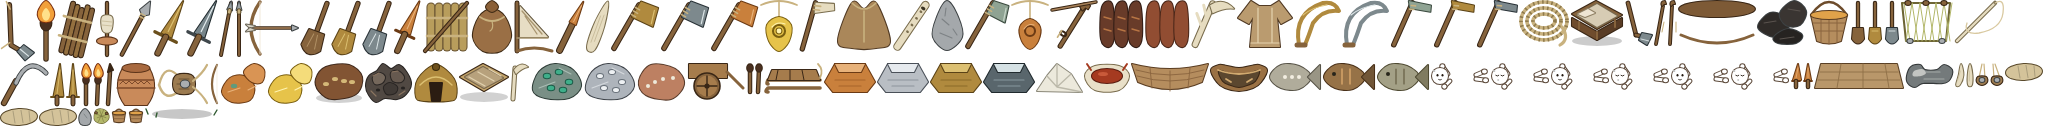
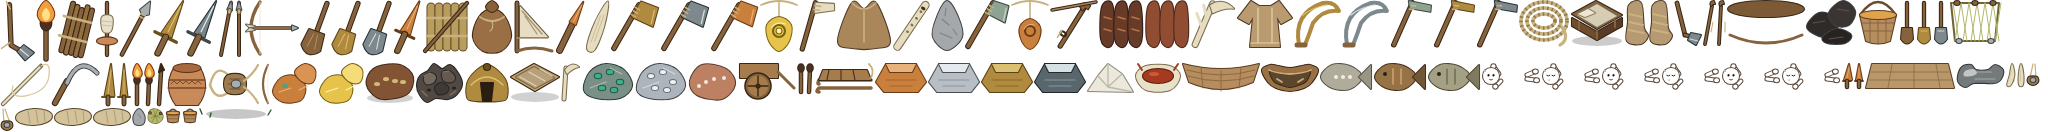
m15: craft and wear warm foot wraps

diff --git a/src/sim/__tests__/foot-wraps.test.ts b/src/sim/__tests__/foot-wraps.test.ts
@@ -1,0 +1,55 @@
+import { describe, expect, it } from 'vitest';
+import { Simulation } from '../core/Simulation.ts';
+import { changeGarment } from '../core/ToolEquipment.ts';
+import { warmthFrom } from '../knowledge/Tech.ts';
+import { wornGarmentsOf } from '../../render/Renderer.ts';
+import { toCheckpointRecord } from '../persistence/CheckpointRecords.ts';
+
+function fixture() {
+  const sim = new Simulation({ seed: 'foot-wraps', world: { width: 48, height: 48 }, population: { bands: 1, peoplePerBand: 2 } });
+  sim.possessFirst(); const person = sim.player!;
+  person.needs.hunger = person.needs.thirst = person.needs.cold = person.needs.fatigue = 0;
+  return { sim, person };
+}
+describe('foot wraps', () => {
+  it('crafts through the normal executor with individual knowledge and exact material cost', () => {
+    const { sim, person } = fixture();
+    for (const [item, count] of person.inventory.entries()) person.inventory.remove(item, count);
+    person.inventory.add('hide', 1); person.inventory.add('rope', 1);
+    // Orders can be accepted before executor preflight; the first real step
+    // refuses unknown techniques without consuming the supplied materials.
+    expect(sim.order(person, 'craft', { recipeId: 'foot_wraps' })).toBe(true);
+    sim.step();
+    expect(person.inventory.count('foot_wraps')).toBe(0);
+    expect(person.inventory.count('hide')).toBe(1); expect(person.inventory.count('rope')).toBe(1);
+    expect(person.action).not.toBe('craft');
+    person.knownTech.add('foot_wraps');
+    expect(sim.order(person, 'craft', { recipeId: 'foot_wraps' })).toBe(true);
+    for (let tick = 0; tick < 300 && !person.inventory.count('foot_wraps'); tick++) sim.step();
+    expect(person.inventory.count('foot_wraps')).toBe(1);
+    expect(person.inventory.count('hide')).toBe(0); expect(person.inventory.count('rope')).toBe(0);
+    expect(warmthFrom(person)).toBe(0);
+  });
+  it('uses an independent feet slot for warmth and appearance; spare or stale references do neither', () => {
+    const { person } = fixture();
+    person.inventory.add('foot_wraps', 1); person.inventory.add('sewn_tunic', 1);
+    expect(warmthFrom(person)).toBe(0); expect(wornGarmentsOf(person).feet).toBeUndefined();
+    expect(changeGarment(person, 'sewn_tunic', 'wear_garment')).toBeNull();
+    expect(changeGarment(person, 'foot_wraps', 'wear_garment')).toBeNull();
+    expect(warmthFrom(person)).toBeCloseTo(1 - 0.7 * 0.92);
+    expect(wornGarmentsOf(person)).toMatchObject({ torso: 'tunic', feet: 'wraps' });
+    person.inventory.remove('foot_wraps', 1);
+    expect(warmthFrom(person)).toBeCloseTo(0.30); expect(wornGarmentsOf(person).feet).toBeUndefined();
+  });
+  it('preserves the equipped feet and individual knowledge through JSON, then takes them off', () => {
+    const { sim, person } = fixture();
+    person.inventory.add('foot_wraps', 1); person.knownTech.add('foot_wraps');
+    changeGarment(person, 'foot_wraps', 'wear_garment');
+    const loaded = Simulation.fromCheckpointRecord(JSON.parse(JSON.stringify(toCheckpointRecord(sim))));
+    const restored = loaded.peopleById.get(person.id)!;
+    expect(restored.knownTech.has('foot_wraps')).toBe(true);
+    expect(warmthFrom(restored)).toBeCloseTo(0.08); expect(wornGarmentsOf(restored).feet).toBe('wraps');
+    expect(changeGarment(restored, 'foot_wraps', 'take_off_garment')).toBeNull();
+    expect(restored.inventory.count('foot_wraps')).toBe(1); expect(warmthFrom(restored)).toBe(0);
+  });
+});

diff --git a/e2e/foot-wraps.spec.ts b/e2e/foot-wraps.spec.ts
@@ -1,0 +1,38 @@
+import { mkdirSync } from 'node:fs';
+import { test, expect } from '@playwright/test';
+
+test('foot wraps are worn from the Spanish Kit and visible on the feet', async ({ page }) => {
+  const errors: string[] = []; page.on('pageerror', error => errors.push(error.message));
+  await page.goto('/?seed=e2e-foot-wraps&skipIntro=1&defaults=1&lang=es');
+  await expect(page.locator('.hud-clock')).not.toBeEmpty({ timeout: 15_000 });
+  await page.locator('.hud-button', { hasText: 'Pausa' }).click();
+  await page.waitForFunction(() => !!(window as any).__dynasty?.renderer?.art);
+  await page.evaluate(() => {
+    const d = (window as any).__dynasty, p = d.sim.player;
+    d.sim.time.tick = d.sim.config.time.ticksPerDay / 2;
+    p.age = 30 * p.daysPerYear; p.inventory.add('foot_wraps', 1);
+    p.needs.hunger = p.needs.thirst = p.needs.cold = p.needs.fatigue = 0;
+    d.camera.zoom = 7.5; d.camera.snapTo(p.x, p.y - 2); d.camera.following = false;
+    d.renderer.fogEnabled = false; d.renderer.interpolator.clear();
+  });
+  await page.locator('.hud-tab[data-tab="kit"]').click();
+  const wear = page.locator('.hud-item-verbs [data-item="foot_wraps"][data-verb="wear_garment"]');
+  await expect(wear).toBeVisible(); await wear.click();
+  await page.evaluate(() => {
+    const d = (window as any).__dynasty;
+    for (let tick = 0; tick < d.sim.config.carry.equipTicks + 2; tick++) d.sim.step();
+    d.renderer.render(null, 0);
+  });
+  await page.locator('.hud-tab[data-tab="self"]').click();
+  await page.locator('.hud-tab[data-tab="kit"]').click();
+  await expect(page.locator('.hud-panel')).toContainText('Envolturas de pies');
+  expect(await page.evaluate(async () => {
+    const d = (window as any).__dynasty, path = '/src/render/Renderer.ts';
+    const { wornGarmentsOf } = await import(/* @vite-ignore */ path);
+    return { item: d.sim.player.equipment.feet?.item, drawn: wornGarmentsOf(d.sim.player).feet };
+  })).toEqual({ item: 'foot_wraps', drawn: 'wraps' });
+  const shots = 'artifacts/screenshots/m15-phase14c-foot-wraps-2026-10-10';
+  mkdirSync(shots, { recursive: true });
+  await page.screenshot({ path: `${shots}/02-envolturas-de-pies-diurnas.png` });
+  expect(errors).toEqual([]);
+});

diff --git a/src/sim/knowledge/Tech.ts b/src/sim/knowledge/Tech.ts
@@ -205,6 +205,7 @@ export const TECHS = [
   'smoking',
   'pemmican',
   'saltmaking', 'salting',
+  'foot_wraps',
 ] as const;
 export type Tech = (typeof TECHS)[number];
 
@@ -469,6 +470,19 @@ export interface TechDef {
  * catch.
  */
 export const TECH: Record<Tech, TechDef> = {
+  foot_wraps: {
+    id: 'foot_wraps', label: 'Foot wraps', domain: 'cloth',
+    age: 'middle_palaeolithic', firstKnown: 'Hide bound around the feet; the first date is uncertain',
+    kind: 'device', requires: ['clothing', 'cordage'], difficulty: 0.25, skill: 'build',
+    prototype: { hide: 1, rope: 1 }, maxRefinement: 3,
+    sparks: [
+      { needs: [{ kind: 'knows', tech: 'clothing' }, { kind: 'holding', item: 'hide' }, { kind: 'feeling', need: 'cold' }],
+        weight: 0.8, story: 'wrapped a cold foot in a scrap of hide' },
+      { needs: [{ kind: 'knows', tech: 'cordage' }, { kind: 'holding', item: 'rope' }, { kind: 'season', season: 'winter' }],
+        weight: 0.5, story: 'thought of binding the foot covering so it would stay on' },
+    ],
+    description: 'Hide tied around the feet keeps them warmer only while worn.',
+  },
   saltmaking: {
     id: 'saltmaking', label: 'Saltmaking', domain: 'fire', web: 'preservation',
     age: 'neolithic', firstKnown: 'Neolithic', kind: 'device',
@@ -2638,6 +2652,8 @@ export interface TechEffect {
 }
 
 export const TECH_EFFECTS: Record<Tech, TechEffect> = {
+  foot_wraps: { summary: 'Crafted foot wraps warm the feet only when actually equipped.',
+    site: 'RECIPES.foot_wraps; ITEMS.foot_wraps garment; warmthFrom and Renderer.wornGarmentsOf' },
   preserving: { summary: 'A drying rack makes meat and fish that spoil ten times more slowly.',
     site: 'BUILDINGS.drying_rack and RECIPES.dried_meat/dried_fish; Inventory.spoil reads their spoilTicks' },
   smoking: { summary: 'A rack beside a hearth makes smoked food that keeps longer than dried food.',

diff --git a/src/i18n/es/tech.ts b/src/i18n/es/tech.ts
@@ -1,5 +1,10 @@
 /** Spanish for tech. Keys are the English templates; see `i18n.ts`. */
 export const ES_TECH: Record<string, string> = {
+  'Crafted foot wraps warm the feet only when actually equipped.': 'Las envolturas de pies fabricadas solo abrigan cuando se llevan puestas.',
+  'Hide bound around the feet; the first date is uncertain': 'Piel atada alrededor de los pies; la fecha más antigua es incierta',
+  'wrapped a cold foot in a scrap of hide': 'envolvió un pie frío en un retazo de piel',
+  'thought of binding the foot covering so it would stay on': 'pensó en atar la envoltura del pie para que no se soltara',
+  'Hide tied around the feet keeps them warmer only while worn.': 'La piel atada alrededor de los pies solo abriga mientras se lleva puesta.',
   'Saltmaking': 'Obtener sal',
   'Salting food': 'Salar comida',
   'noticed crystals left behind when brine dried in a vessel': 'observó los cristales que quedaban al secarse la salmuera en una vasija',

diff --git a/art/src/props/items.ts b/art/src/props/items.ts
@@ -6,6 +6,9 @@ export type ItemArt = [id: string, label: string, tech: string, draw: () => stri
 export const WOOD = '#86633c', WOOD_D = '#3a2716', STONE = '#a9adb0', STONE_D = '#3d4244', BONE = '#e6dcc0', BONE_D = '#7a6d4e', CORD = '#c9b27f';
 const rot = (inner: string, deg: number, cx = 32, cy = 32): string => `<g transform="rotate(${deg} ${cx} ${cy})">${inner}</g>`;
 export const ITEMS: ItemArt[] = [
+  ['foot_wraps', 'Envolturas de pies', 'foot_wraps', () =>
+    [19, 43].map(x => shape(smooth([[x - 7, 13], [x + 5, 11], [x + 8, 36], [x + 12, 44], [x + 5, 52], [x - 9, 49], [x - 8, 30]]), '#b59a73', '#513a24')
+      + stroke(`M${x - 7},22L${x + 6},25M${x - 7},30L${x + 7},33M${x - 7},38L${x + 8},41`, CORD, 2)).join('')],
   ['salt', 'Sal', 'saltmaking', () =>
     shape(poly([[10, 47], [20, 32], [30, 20], [44, 30], [55, 48]]), '#ece9dc', '#8b8879')
     + stroke('M20,32L30,43L44,30M30,20L30,43L55,48', '#bcb9aa', 1.3)],

diff --git a/src/render/Renderer.ts b/src/render/Renderer.ts
@@ -64,7 +64,11 @@ export function wornGarmentsOf(person: Person): PersonAspect['wear'] {
     ? torsoId === 'sewn_tunic' ? 'tunic' : torsoId : undefined;
   const cloak = person.equipment.cloak?.item === 'hide_cape' && person.inventory.count('hide_cape') >= 1
     ? 'cloak' as const : undefined;
-  return { torso, cloak };
+  const feet = person.equipment.feet?.item === 'foot_wraps' && person.inventory.count('foot_wraps') >= 1
+    ? 'wraps' as const : undefined;
+  // Keep absent optional regions out of the appearance record: old callers
+  // and cached appearances already use the two torso/cloak keys.
+  return feet ? { torso, cloak, feet } : { torso, cloak };
 }
 
 const BIOME_COLORS: Record<Biome, [string, string]> = {

diff --git a/src/sim/entities/Recipe.ts b/src/sim/entities/Recipe.ts
@@ -808,6 +808,8 @@ export const RECIPES: Record<string, RecipeDef> = {
     workTicks: 100, ingredients: { meat: 2, salt: 1 }, output: { salted_meat: 2 }, preservesInput: 'meat', keep: 4 },
   salted_fish: { id: 'salted_fish', label: 'Salt fish', icon: '🐟', tech: 'salting', skill: 'cook',
     workTicks: 100, ingredients: { fish: 2, salt: 1 }, output: { salted_fish: 2 }, preservesInput: 'fish', keep: 4 },
+  foot_wraps: { id: 'foot_wraps', label: 'Foot wraps', icon: '👣', tech: 'foot_wraps', skill: 'build',
+    workTicks: 70, ingredients: { hide: 1, rope: 1 }, output: { foot_wraps: 1 }, keep: 1 },
 };
 
 /** Every item any recipe can produce. Used by the "is this reachable?" tests. */

diff --git a/src/sim/entities/Item.ts b/src/sim/entities/Item.ts
@@ -485,6 +485,8 @@ export const ITEMS: Record<string, ItemDef> = {
   salted_fish: { id: 'salted_fish', label: 'Salted fish', nutrition: 18, spoilTicks: 160000,
     macros: { fat: 0.35, protein: 0.65, carb: 0 }, baseValue: 11,
     class: 'food', hand: { perHand: 3, perArms: 8, hands: 1 } },
+  foot_wraps: { id: 'foot_wraps', label: 'Foot wraps', nutrition: 0, spoilTicks: 0, baseValue: 4,
+    class: 'small', hand: { perHand: 1, perArms: 1, hands: 1 }, garment: { slot: 'feet', warmth: 0.08 } },
 };
 
 export class Inventory {

diff --git a/src/i18n/es/data.ts b/src/i18n/es/data.ts
@@ -1,5 +1,6 @@
 /** Spanish for data. Keys are the English templates; see `i18n.ts`. */
 export const ES_DATA: Record<string, string> = {
+  'Foot wraps': 'Envolturas de pies',
   'Salt': 'Sal',
   'Salted meat': 'Carne salada',
   'Salted fish': 'Pescado salado',

diff --git a/docs/m15_phase14c_foot_wraps.md b/docs/m15_phase14c_foot_wraps.md
@@ -1,0 +1,29 @@
+# M15 14c — Foot wraps, 2026-10-10
+
+Version `0.15.38-alpha`. Individual `foot_wraps` knowledge requires clothing
+and cordage; two cold/winter discovery routes, a hide-and-rope prototype and
+an actual recipe ship together. Fabrication costs one hide and one rope,
+70 banked work ticks through normal craft/interruption readers.
+
+The garment occupies `feet` and supplies warmth 0.08 only while worn. The
+existing warmth composition, NPC garment demand and manual wear/take-off
+actions read its data. A tunic and foot wraps combine independently; extra
+inventory copies or a stale equipment reference supply neither warmth nor
+appearance. Checkpoint JSON retains the slot and knowledge.
+
+Art: generated `props/item/foot_wraps`, and the existing `feet/wraps` person
+layer, selected only by an owned equipped garment. No PNG edited by hand.
+The Spanish label, discovery stories, description and effect are translated.
+No precise historical first date is asserted.
+
+Verification: typecheck; 62/62 focused unit tests in six files (garment,
+crafting, knowledge/synthesis, i18n and generated art); single-seed default
+health still fails `cravings-steer-the-diet` and `perf-budget` (2/147, known
+baseline); focused browser passes 1/1, clean exit. Prop build and contact
+sheet generated. Reviewed daytime capture:
+`artifacts/screenshots/m15-phase14c-foot-wraps-2026-10-10/02-envolturas-de-pies-diurnas.png`.
+
+This completes this catalogue entry, not phase 14c. Other garments, the
+clothing sub-web, warmth belief demand, hot-weather removal, pockets and
+wear/repair remain pending. No survival improvement is inferred from this
+single seed; cohorts remain deferred by the M15 verification instruction.

diff --git a/docs/changelog.md b/docs/changelog.md
@@ -1,3 +1,16 @@
+## 2026-10-10 — m15: envolturas de pies
+
+`0.15.38-alpha`: nueva técnica individual, descubrimiento por frío/cuerda,
+receta piel 1 + cuerda 1 y prenda para el hueco de pies. Abrigo 0,08 mientras
+se lleva puesta; combina con túnica y capa, no abriga ni se dibuja desde la
+mochila. Icono regenerado y capa de pies del atlas conectada a equipo real.
+Español completo y JSON conservan técnica y equipo.
+
+Typecheck, 62/62 unitarias focalizadas y browser 1/1 pasan. Chequeo corto:
+2/147 fallos conocidos (`cravings-steer-the-diet`, `perf-budget`); no mejora
+económica o poblacional inferida. Sin nueva suite global completa. Contrato:
+`docs/m15_phase14c_foot_wraps.md`. Captura revisada:
+`artifacts/screenshots/m15-phase14c-foot-wraps-2026-10-10/02-envolturas-de-pies-diurnas.png`.
 ## 2026-10-10 — m15: noches, comprobaciones de mecanismos
 
 Escenario `nights`: invierno duro, dos bandas con fuego, dos órdenes equivalentes

diff --git a/docs/next-steps.md b/docs/next-steps.md
@@ -1678,3 +1678,5 @@ medición discriminante antes de autorizar activación15c. No usar esta semilla
 para afirmar mejora económica. docs/m15_phase15d_salters.md conserva evidencia.
 
 2026-10-10: nights12f tiene tres checks de mecanismos y pruebas negativas; véase m15_phase12f_nights.md. Pendientes adopción autónoma/cohorte de violencia/coste; no cerrar la fase por estas oportunidades ordenadas.
+
+2026-10-10: entrada foot_wraps de14c implementada con técnica, receta, hueco, abrigo y capa de pies; m15_phase14c_foot_wraps.md. Pendientes resto de prendas/red, bolsillos, creencias y desgaste/remiendo.
